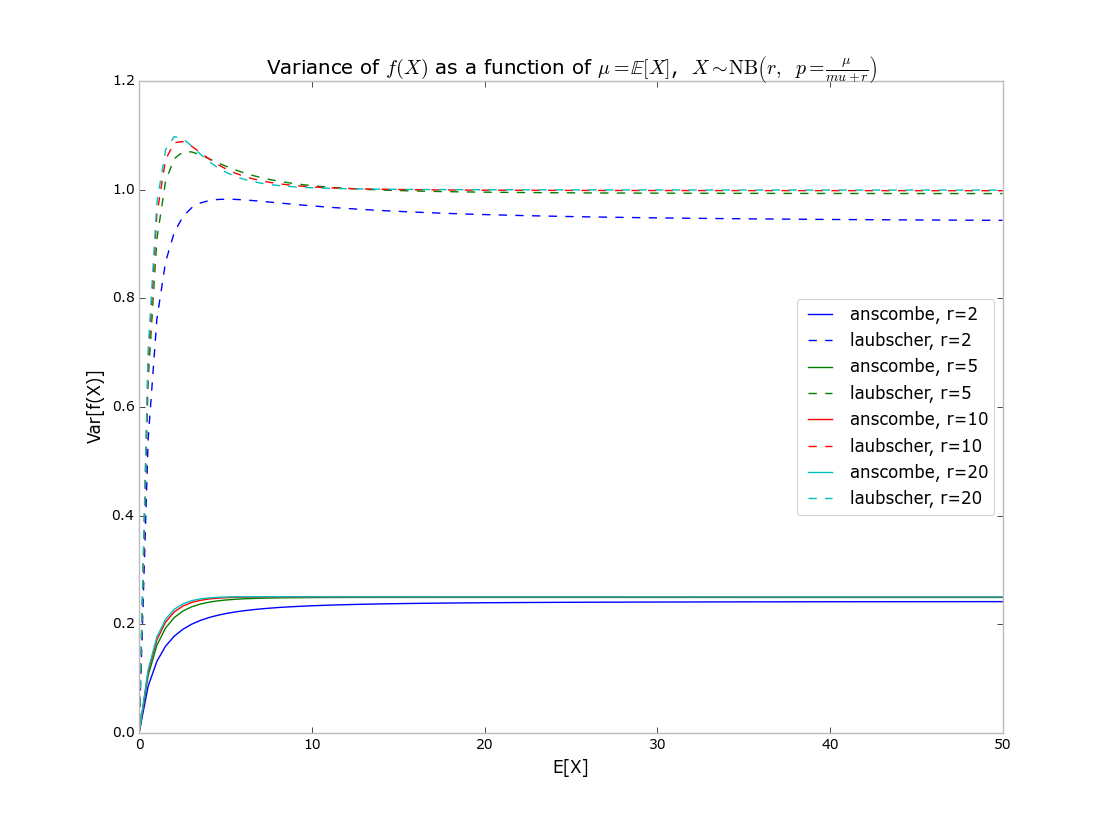
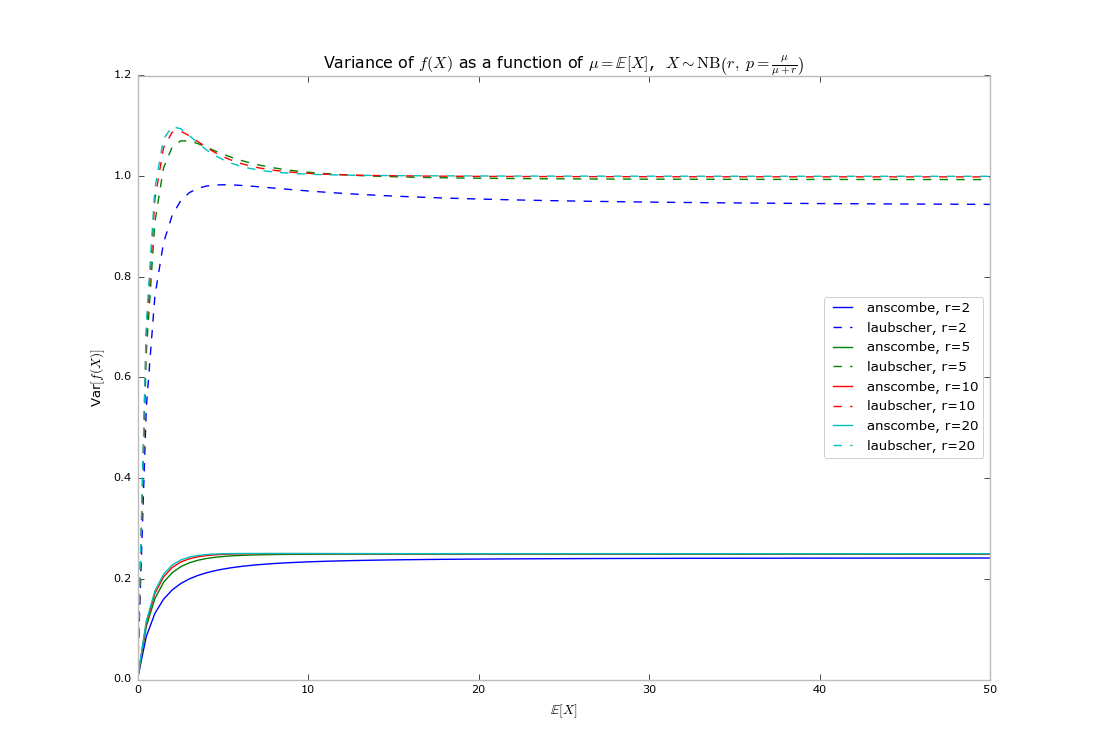
fix up figure axis labels

diff --git a/examples/stabilizer_test.py b/examples/stabilizer_test.py
@@ -7,7 +7,7 @@ from spikestim import make_anscombe_stabilizer, make_laubscher_stabilizer, \
 
 
 if __name__ == "__main__":
-    plt.figure()
+    plt.figure(figsize=(11,8))
 
     for r in [2, 5, 10, 20]:
         # write p as a function of mu
@@ -27,10 +27,10 @@ if __name__ == "__main__":
         plt.plot(means, laubscher_vars, line.get_color() + '--', label='laubscher, r={}'.format(r))
 
     # label the plot
-    plt.xlabel('E[X]')
-    plt.ylabel('Var[f(X)]')
+    plt.xlabel(r'$\mathbb{E}[X]$')
+    plt.ylabel(r'Var$[f(X)]$')
     plt.title(r'Variance of $f(X)$ as a function of $\mu = \mathbb{E}[X]$,  '
-              r'$X \sim \mathrm{NB}\left(r, \; p=\frac{\mu}{mu + r}\right)$')
+              r'$X \sim \mathrm{NB}\left(r, \; p=\frac{\mu}{\mu + r}\right)$')
     plt.legend(loc='best')
 
     plt.show()
